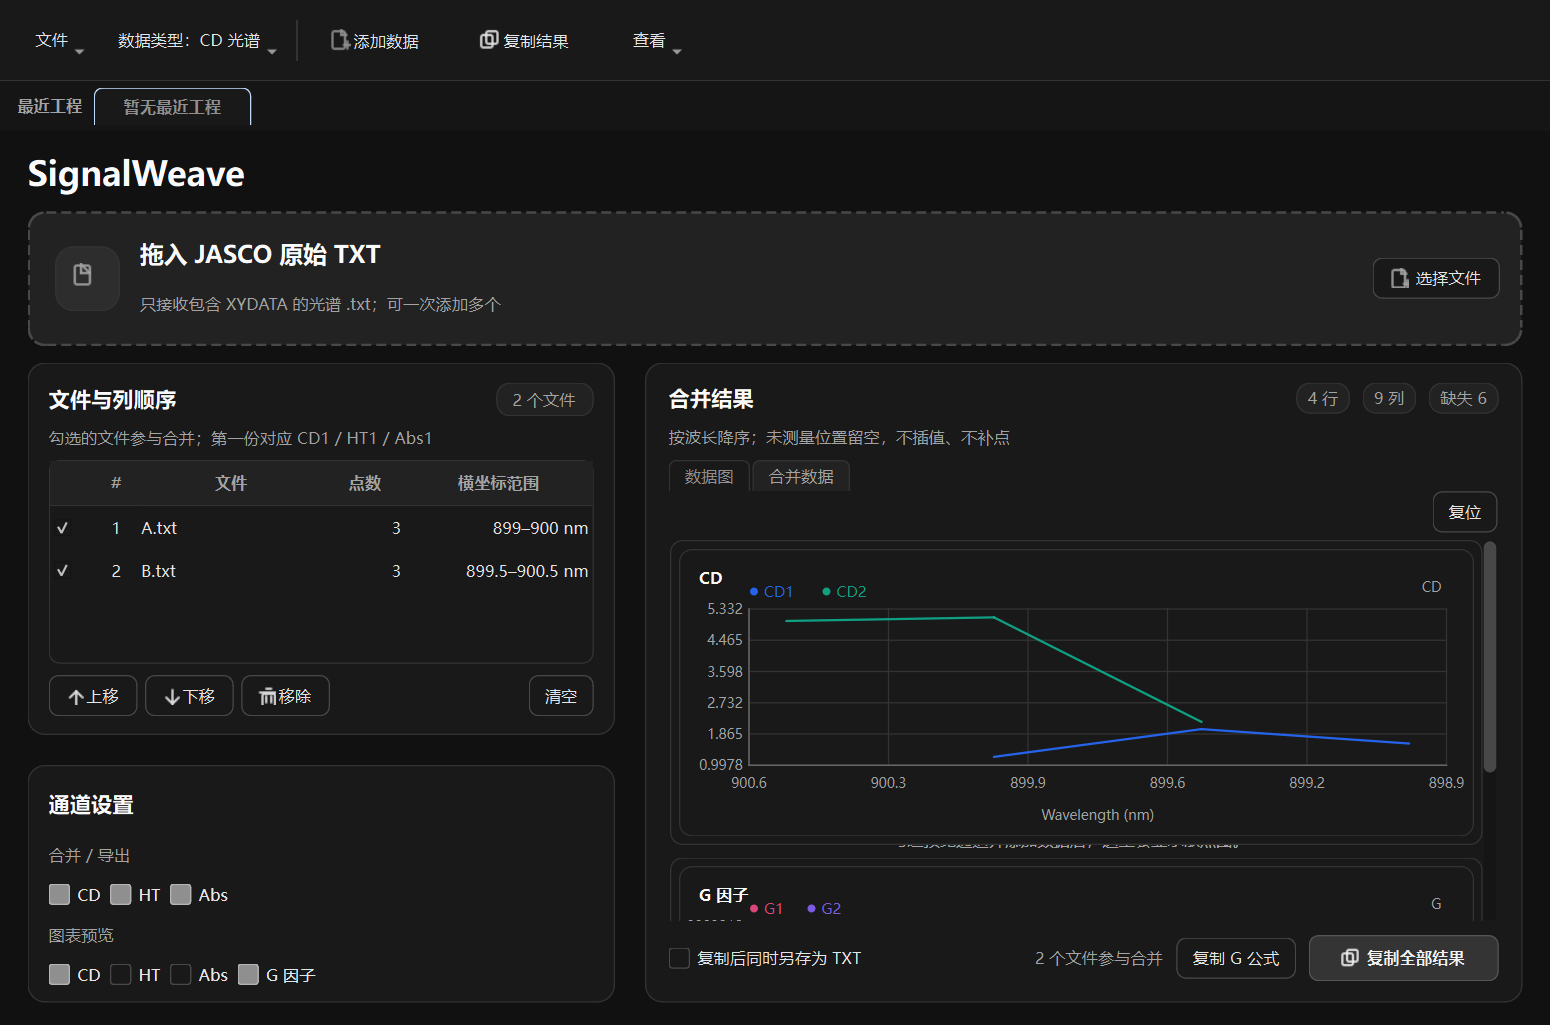
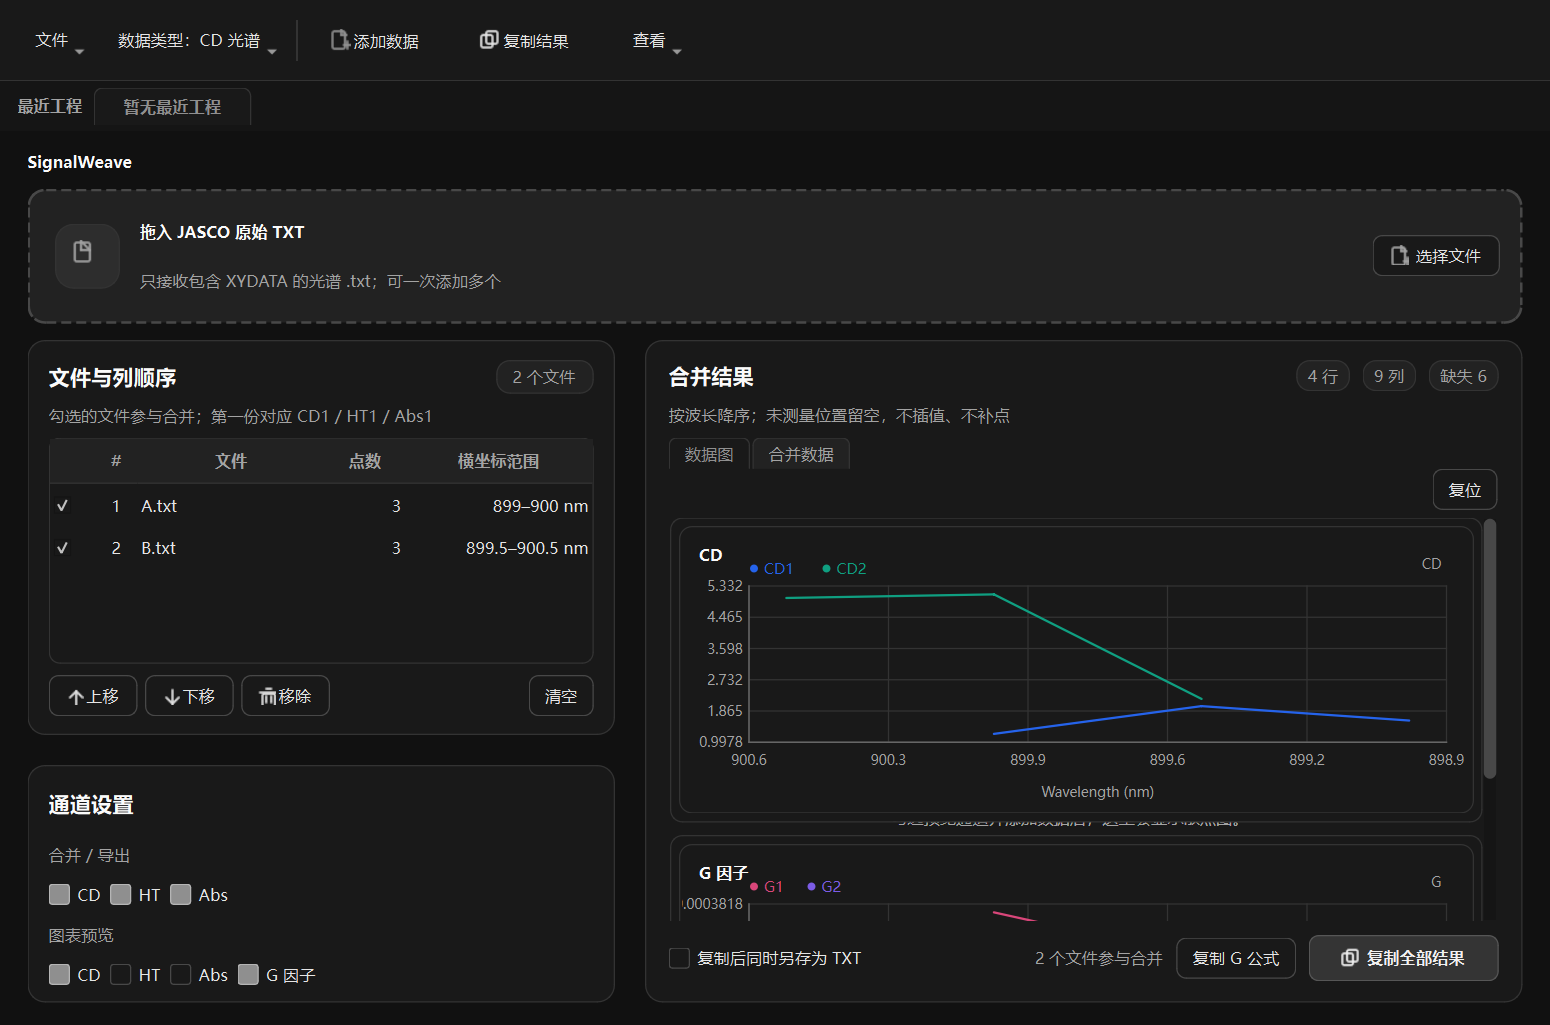
Remove light border from disabled dark tabs

diff --git a/theme.py b/theme.py
@@ -248,6 +248,11 @@ QTabBar#recentTabs::tab, QTabWidget#previewTabs QTabBar::tab {{
     color: {tokens["text_muted"]};
     border-color: {tokens["border"]};
 }}
+QTabBar#recentTabs::tab:disabled, QTabWidget#previewTabs QTabBar::tab:disabled {{
+    background: {tokens["surface_alt"]};
+    color: {tokens["text_disabled"]};
+    border-color: {tokens["border"]};
+}}
 QTabBar#recentTabs::tab:selected, QTabWidget#previewTabs QTabBar::tab:selected {{
     background: {tokens["surface"]};
     color: {tokens["accent"]};

diff --git a/tests/test_theme.py b/tests/test_theme.py
@@ -80,6 +80,9 @@ class ThemeTests(unittest.TestCase):
         apply_theme(self.app, "", mode="dark")
         self.assertIn("QToolBar::separator", self.app.styleSheet())
         self.assertIn("QMenu::item:selected", self.app.styleSheet())
+        self.assertIn(
+            "QTabBar#recentTabs::tab:disabled", self.app.styleSheet()
+        )
         self.assertIn("background: #343434", self.app.styleSheet())
         apply_theme(self.app, "")
 

diff --git a/ui_main.py b/ui_main.py
@@ -1599,6 +1599,11 @@ QTabBar#recentTabs::tab {
     padding: 6px 16px;
     margin-right: 3px;
 }
+QTabBar#recentTabs::tab:disabled {
+    background: #f1f5f9;
+    color: #94a3b8;
+    border-color: #e2e8f0;
+}
 QTabBar#recentTabs::tab:selected {
     background: #ffffff;
     color: #1d4ed8;
